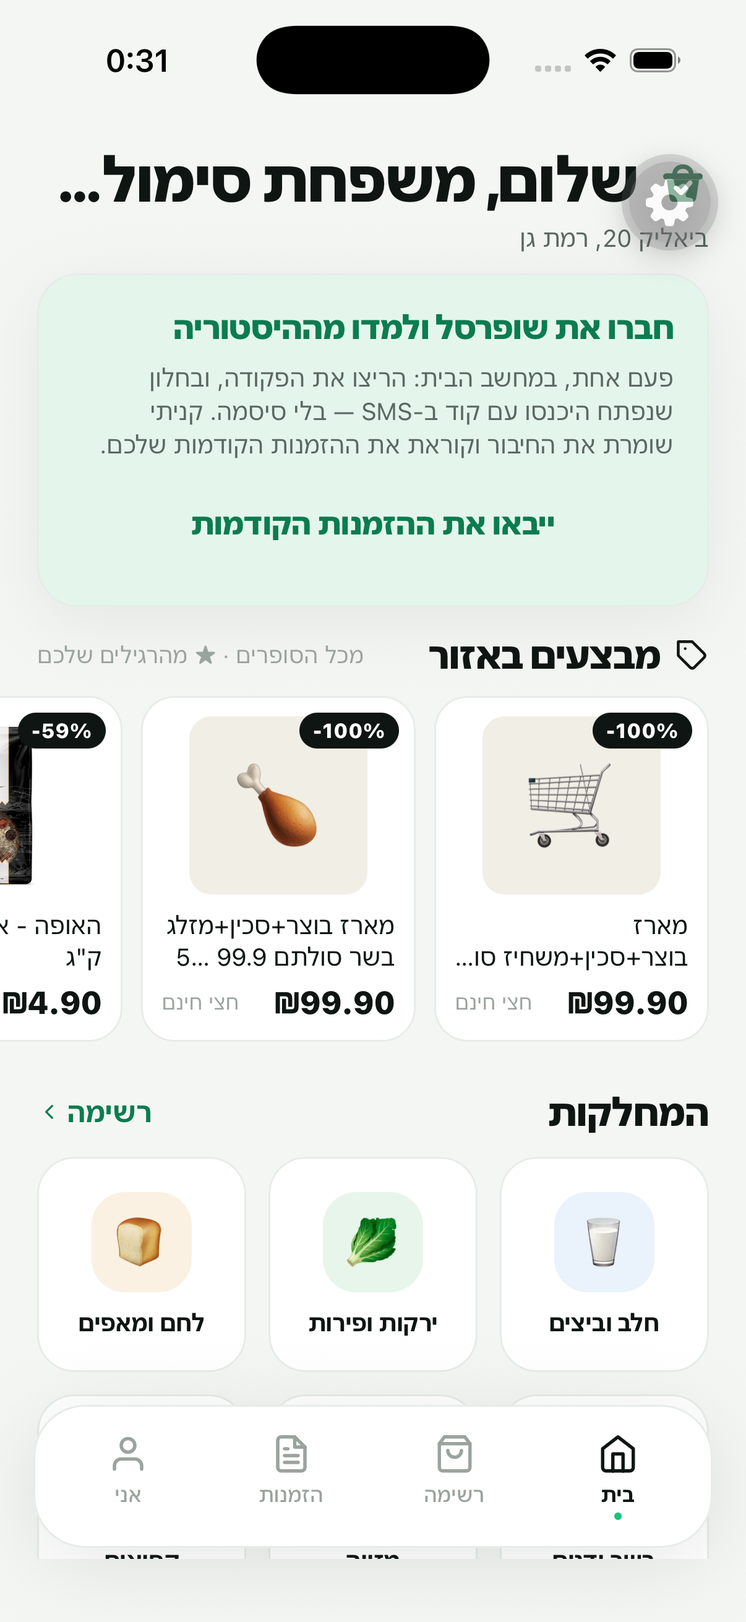
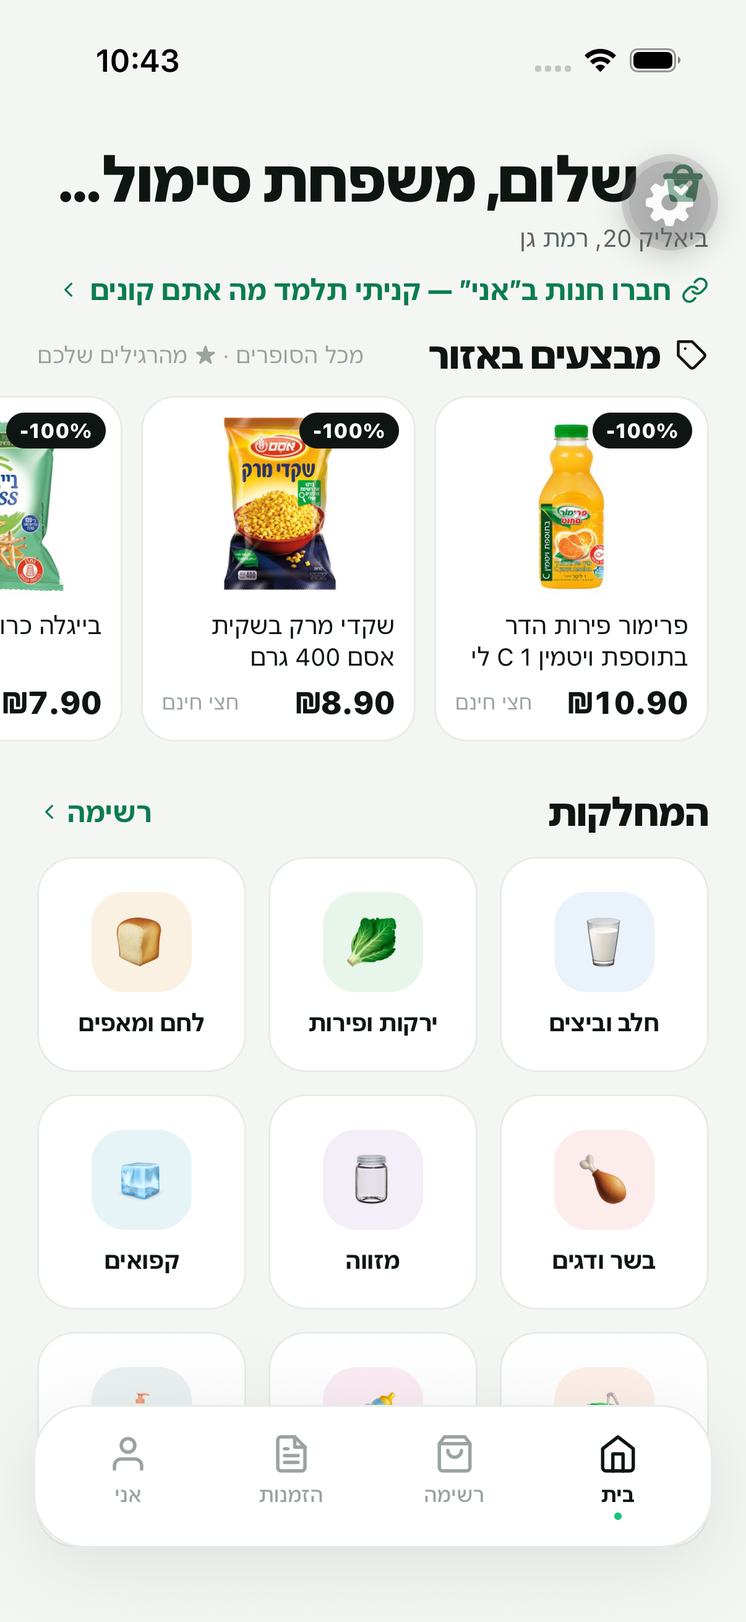
Compare and home: the home-computer connect card is gone (a pointer to Me instead), in-store rows read on one line each with the comparison as the row's last line, coupons fold into the price with 'כולל קופון'

diff --git a/apps/mobile/src/lib/i18n.ts b/apps/mobile/src/lib/i18n.ts
@@ -31,7 +31,7 @@ const he: Strings = {
   linkTipPw: 'שימו לב: כניסת ״חברי מועדון״ נותנת רק מחירי מועדון ולא מאפשרת הזמנה. להזמנה — התחברו עם אימייל+סיסמה (Face ID ימלא) או ״התחבר עם פייסבוק״.', linkTipOtp: 'הזינו מספר טלפון וקוד ה-SMS — בלי סיסמה.',
   importingHistory: 'קוראים את ההזמנות הקודמות שלכם…', importedHistory: 'למדנו {n} הזמנות — ״הרגילים שלכם״ מוכנים.',
   connectStore: 'חיבור {s}', linkHintOtp: 'היכנסו ל{s} עם הטלפון וקוד ה-SMS — בלי סיסמה.', linkHintPw: 'היכנסו ל{s}. הסיסמה נשמרת באייפון — Face ID ימלא אותה.', imSignedIn: 'התחברתי', linkedSub: 'החשבון ב{s} מחובר. מכאן קניתי מזמינה בשבילכם.', linkNeedsApp: 'חיבור חנות נעשה באפליקציה בטלפון, שם המכשיר ממלא את הפרטים אוטומטית.', linkPrivacy: 'ההתחברות נשארת במכשיר שלכם. קניתי לא שומרת סיסמאות.', ok: 'הבנתי', addStore: 'חיבור חנות',
-  connectTitle: 'חברו את {r} ולמדו מההיסטוריה', connectSub: 'פעם אחת, במחשב הבית: הריצו את הפקודה, ובחלון שנפתח היכנסו עם קוד ב-SMS — בלי סיסמה. קניתי שומרת את החיבור וקוראת את ההזמנות הקודמות שלכם.', importBtn: 'ייבאו את ההזמנות הקודמות', importing: 'קוראים את ההיסטוריה…', importDone: 'נלמדו {o} הזמנות · {p} מוצרים', importFailed: 'הייבוא נכשל: {e}', importNeedsLink: 'קודם צריך לחבר את החשבון במחשב הבית.',
+  connectPointer: 'חברו חנות ב״{m}״ — קניתי תלמד מה אתם קונים',
   tabHome: 'בית', tabList: 'רשימה', tabOrders: 'הזמנות', tabMe: 'אני', hello: 'שלום, {n}', aisles: 'המחלקות', browseAisle: 'לכל המוצרים ›', addToList: 'הוסף', inList: 'ברשימה ✓', from: 'החל מ', atChains: 'ב-{n} רשתות',
   ordersTitle: 'ההזמנות שלכם', noOrders: 'עדיין אין הזמנות. הרשימה הראשונה מחכה.', meTitle: 'משק הבית', members: 'בני משפחה', inviteCode: 'קוד הזמנה', signOut: 'התנתקות', yourStores: 'הרשתות שלכם', getIt: 'איך מקבלים', workerOffline: 'המחשב הבית לא מחובר עכשיו — ההזמנה תמתין בתור עד שיתחבר.',
   skip: 'דלגו', introNext: 'הבא', introStart: 'מתחילים',
@@ -41,7 +41,7 @@ const he: Strings = {
   introAfter: 'המסך הבא לוקח דקה: כתובת, הרשתות שלכם, ואיך נוח לכם לקבל.',
   introTryFirst: '↑ נסו את זה למעלה כדי להמשיך', intro3Added: 'נוסף לרשימה ✓',
   intro4Title: 'שלוש הקשות', intro4Body: 'ככה נראית קנייה שבועית בקניתי. נסו:', intro4a: 'הוסיפו את הקנייה הרגילה', intro4b: 'השוו בכל הרשתות', intro4c: 'אשרו את הסכום', intro4Done: 'זהו. המצרכים בדרך. 🛒',
-  couponChip: 'קופון −{x}', connectedStores: 'החנויות המחוברות', workerOnline: 'המחשב הבית מחובר', workerOff: 'המחשב הבית לא מחובר', linked: 'מחובר', notLinked: 'לא מחובר', copyCmd: 'העתיקו את הפקודה', copied: 'הועתק ✓', showIntro: 'הצג את ההקדמה שוב',
+  inclCoupon: 'כולל קופון −{x}', connectedStores: 'החנויות המחוברות', workerOnline: 'המחשב הבית מחובר', workerOff: 'המחשב הבית לא מחובר', linked: 'מחובר', notLinked: 'לא מחובר', copyCmd: 'העתיקו את הפקודה', copied: 'הועתק ✓', showIntro: 'הצג את ההקדמה שוב',
   signInTitle: 'כניסה', signUpTitle: 'יצירת חשבון', confirmTitle: 'אימות המייל', forgotTitle: 'שחזור סיסמה', resetTitle: 'סיסמה חדשה',
   email: 'אימייל', password: 'סיסמה', passwordAgain: 'הסיסמה שוב', newPassword: 'סיסמה חדשה', code: 'קוד האימות מהמייל', pwRule: 'לפחות 10 תווים, עם אות ומספר.',
   signInBtn: 'כניסה', signUpBtn: 'יצירת חשבון', confirmBtn: 'אימות', sendCode: 'שלחו לי קוד', resetBtn: 'שמירת סיסמה', noAccount: 'אין לכם חשבון? הרשמה', forgotLink: 'שכחתי סיסמה', resend: 'שלחו קוד שוב', backToSignIn: 'חזרה לכניסה', codeSent: 'שלחנו קוד ל-{e}',
@@ -100,8 +100,8 @@ const he: Strings = {
   // Delivery time on compare
   etaLive: 'וולט · ~{m} דק׳', etaLiveRange: 'וולט · {r} דק׳', etaSlots: 'משלוח בחלון', etaSlotsSub: 'הרשת מספקת בחלונות זמן — בוחרים בעמוד ההזמנה', fastBy: 'הכי מהר: {s} · ~{m} דק׳', etaWhy: 'הזמן: וולט מגיע תוך דקות; הרשתות בחלון משלוח, לפי היום והשעה.',
   driveTitle: 'ואם נוסעים לחנות?', driveSub: 'אותה רשימה במחירי המדף בסניפים הקרובים לבית, לפי קובצי המחירים שהרשתות מפרסמות.',
-  driveRow: '{d} ק״מ · ~{m} דק׳ נסיעה · ≈{x} דלק', driveCovers: '{n} מתוך {t} פריטים', driveSaves: 'חוסך {x} לעומת המשלוח הזול', driveCosts: 'יקר ב-{x} מהמשלוח הזול',
-  drivePending: 'בודקים מחירים בסניפים הקרובים אליכם — יופיע בהשוואה הבאה.', driveNoAddress: 'כדי לראות מחירים בסניפים צריך כתובת מדויקת — בחרו אותה מההצעות במסך משק הבית.', driveSameLines: 'אותם {n} פריטים ב{s}: {x} בלי משלוח', driveSameLine1: 'אותו פריט ב{s}: {x} בלי משלוח', subsNamed: 'חלופה: {x}', driveNone: 'לא נמצאו סניפים עם מחירים ליד הכתובת שלכם.', driveMissing: 'לא נמצא בסניף: {x}', driveNote: 'הנסיעה מחושבת לפי מרחק; זמן הקנייה עצמה לא נספר.',
+  driveRow: '{d} ק״מ · ~{m} דק׳ נסיעה · ≈{x} דלק', driveCovers: '{n} מתוך {t} פריטים', driveSaves: 'חוסך {x} מול המשלוח הזול', driveCosts: 'יקר ב-{x} מהמשלוח הזול',
+  drivePending: 'בודקים מחירים בסניפים הקרובים אליכם — יופיע בהשוואה הבאה.', driveNoAddress: 'כדי לראות מחירים בסניפים צריך כתובת מדויקת — בחרו אותה מההצעות במסך משק הבית.', driveSameLines: 'אותם {n} ב{s}: {x}', driveSameLine1: 'אותו פריט ב{s}: {x}', subsNamed: 'חלופה: {x}', driveNone: 'לא נמצאו סניפים עם מחירים ליד הכתובת שלכם.', driveMissing: 'לא נמצא בסניף: {x}', driveNote: 'הנסיעה מחושבת לפי מרחק; זמן הקנייה עצמה לא נספר.',
   rej_partial: 'מספקת רק {a} מתוך {b} פריטים', rej_min: 'הסל מתחת למינימום ההזמנה',
 };
 
@@ -124,7 +124,7 @@ const en: Strings = {
   linkTipPw: 'Note: the “club member” sign-in only gives club prices, not ordering. To order, sign in with email+password (Face ID fills it) or “Log in with Facebook”.', linkTipOtp: 'Enter your phone number and the SMS code — no password.',
   importingHistory: 'Reading your past orders…', importedHistory: 'Learned {n} orders — your usuals are ready.',
   connectStore: 'Connect {s}', linkHintOtp: 'Sign in to {s} with your phone and the SMS code — no password.', linkHintPw: 'Sign in to {s}. Your password is on the iPhone — Face ID fills it.', imSignedIn: "I'm signed in", linkedSub: 'Your {s} account is connected. Kaniti orders for you from here.', linkNeedsApp: 'Connecting a store happens in the phone app, where the device fills your details automatically.', linkPrivacy: 'The sign-in stays on your device. Kaniti stores no passwords.', ok: 'Got it', addStore: 'Connect a store',
-  connectTitle: 'Connect {r} and learn from your history', connectSub: 'Once, on the home computer: run the command and, in the window that opens, sign in with an SMS code — no password. Kaniti keeps the session and reads your past orders.', importBtn: 'Import past orders', importing: 'Reading your history…', importDone: 'Learned {o} orders · {p} products', importFailed: 'Import failed: {e}', importNeedsLink: 'Link the account on the home computer first.',
+  connectPointer: 'Connect a store under “{m}” — Kaniti learns what you buy',
   tabHome: 'Home', tabList: 'List', tabOrders: 'Orders', tabMe: 'Me', hello: 'Hi, {n}', aisles: 'Aisles', browseAisle: 'All products ›', addToList: 'Add', inList: 'In list ✓', from: 'from', atChains: 'at {n} chains',
   ordersTitle: 'Your orders', noOrders: 'No orders yet. Your first list is waiting.', meTitle: 'Household', members: 'Family', inviteCode: 'Invite code', signOut: 'Sign out', yourStores: 'Your stores', getIt: 'How you get it', workerOffline: 'The home computer is offline — the order will wait in the queue until it connects.',
   skip: 'Skip', introNext: 'Next', introStart: 'Let’s go',
@@ -134,7 +134,7 @@ const en: Strings = {
   introAfter: 'The next screen takes a minute: your address, your stores, and how you like to get it.',
   introTryFirst: '↑ Try it above to continue', intro3Added: 'Added to the list ✓',
   intro4Title: 'Three taps', intro4Body: 'This is a weekly shop in Kaniti. Try it:', intro4a: 'Add the usual shop', intro4b: 'Compare every store', intro4c: 'Approve the total', intro4Done: 'That’s it. Groceries on the way. 🛒',
-  couponChip: 'Coupon −{x}', connectedStores: 'Connected stores', workerOnline: 'Home computer online', workerOff: 'Home computer offline', linked: 'Linked', notLinked: 'Not linked', copyCmd: 'Copy the command', copied: 'Copied ✓', showIntro: 'Show the intro again',
+  inclCoupon: 'incl. coupon −{x}', connectedStores: 'Connected stores', workerOnline: 'Home computer online', workerOff: 'Home computer offline', linked: 'Linked', notLinked: 'Not linked', copyCmd: 'Copy the command', copied: 'Copied ✓', showIntro: 'Show the intro again',
   signInTitle: 'Sign in', signUpTitle: 'Create account', confirmTitle: 'Verify your email', forgotTitle: 'Reset password', resetTitle: 'New password',
   email: 'Email', password: 'Password', passwordAgain: 'Password again', newPassword: 'New password', code: 'Verification code from email', pwRule: 'At least 10 characters, with a letter and a number.',
   signInBtn: 'Sign in', signUpBtn: 'Create account', confirmBtn: 'Verify', sendCode: 'Send me a code', resetBtn: 'Save password', noAccount: 'No account? Sign up', forgotLink: 'Forgot password', resend: 'Resend code', backToSignIn: 'Back to sign in', codeSent: 'We sent a code to {e}',
@@ -194,7 +194,7 @@ const en: Strings = {
   etaLive: 'Wolt · ~{m} min', etaLiveRange: 'Wolt · {r} min', etaSlots: 'Window delivery', etaSlotsSub: 'The chain delivers in time windows — you pick one at checkout', fastBy: 'Fastest: {s} · ~{m} min', etaWhy: 'Time: Wolt arrives within minutes; the chains deliver in windows that shift by day and hour.',
   driveTitle: 'And if you drive there?', driveSub: 'The same list at shelf prices in the branches near home, from the price files the chains publish.',
   driveRow: '{d} km · ~{m} min drive · ≈{x} fuel', driveCovers: '{n} of {t} items', driveSaves: 'Saves {x} vs the cheapest delivery', driveCosts: '{x} more than the cheapest delivery',
-  drivePending: 'Checking prices at the branches near you — shows on the next compare.', driveNoAddress: 'In-store prices need an exact address — pick it from the suggestions on the Household screen.', driveSameLines: 'Same {n} items at {s}: {x} without delivery', driveSameLine1: 'The same item at {s}: {x} without delivery', subsNamed: 'Substitute: {x}', driveNone: 'No branches with published prices near your address.', driveMissing: 'Not at this branch: {x}', driveNote: 'Driving is priced by distance; the shopping itself is not counted.',
+  drivePending: 'Checking prices at the branches near you — shows on the next compare.', driveNoAddress: 'In-store prices need an exact address — pick it from the suggestions on the Household screen.', driveSameLines: 'Same {n} at {s}: {x}', driveSameLine1: 'Same item at {s}: {x}', subsNamed: 'Substitute: {x}', driveNone: 'No branches with published prices near your address.', driveMissing: 'Not at this branch: {x}', driveNote: 'Driving is priced by distance; the shopping itself is not counted.',
   rej_partial: 'supplies only {a} of {b} items', rej_min: 'basket is below the store minimum',
 };
 

diff --git a/apps/mobile/src/screens/Options.tsx b/apps/mobile/src/screens/Options.tsx
@@ -51,13 +51,13 @@ const short = (x: string) => (x.length > 28 ? x.slice(0, 27) + '…' : x);
  * The price column of a row: the number with its note wrapping under it. Bounded so the name column
  * keeps its width; hugging the card's outer edge so the prices read as one column down the list.
  */
-function PriceCol({ price, note, color, noteColor }: { price: string; note?: string; color?: string; noteColor?: string }) {
+function PriceCol({ price, note, color }: { price: string; note?: string; color?: string }) {
   const s = S(); const rtl = isRTL();
   const edge = rtl ? ('left' as const) : ('right' as const);
   return (
     <View style={{ maxWidth: '45%', alignItems: rtl ? 'flex-start' : 'flex-end' }}>
       <Text style={[s.price, { fontSize: 18, color: color ?? t.ink, textAlign: edge }]}>{price}</Text>
-      {note ? <Text style={[s.faint, { fontSize: 11, textAlign: edge }, noteColor ? { color: noteColor } : null]}>{note}</Text> : null}
+      {note ? <Text style={[s.faint, { fontSize: 11, textAlign: edge }]}>{note}</Text> : null}
     </View>
   );
 }
@@ -185,9 +185,17 @@ export function OptionsScreen({ api, household, lines, onBack, onChoose, onOrder
     return { missing, swaps };
   };
   const noneAnywhere = q.lines.filter((l) => !Object.values(q.storefrontLines ?? {}).some((m) => m[l.id]));
+  // A coupon is already inside a one-store option's cash (its delivered total is net of it); the price says so
+  // in small print rather than a chip. A split's legs are summed from lines, so no coupon is folded there.
+  const couponOf = (o: PurchaseOption) => (o.legs.length === 1 ? q.couponSavings?.[o.legs[0]!.storefrontId] ?? 0 : 0);
+  const couponNote = (o: PurchaseOption) => (couponOf(o) > 0 ? tr('inclCoupon', { x: money(couponOf(o)) }) : undefined);
   // Every store this list cannot be bought from as-is, as a row: what it prices, what it lacks, how short.
   const answer = pick;
-  const otherOptions: Row[] = q.options.filter((o) => o !== answer && o.kind !== 'drive').map((o) => ({ key: `o-${brandsOf(o)}`, title: brandsOf(o), when: whenOf(o), price: o.cashCost, priceNote: answer && o.cashCost > answer.cashCost ? `+${money(o.cashCost - answer.cashCost)}` : undefined, ...exceptionsOf(o.legs[0]!.storefrontId, o.legs.length === 1 ? o.unpricedLineIds : []), ...(o.missingEstimate ? { priceNote: `${tr('toComplete', { x: money(o.missingEstimate) })}` } : {}), option: o, sid: o.legs[0]!.storefrontId }));
+  const otherOptions: Row[] = q.options.filter((o) => o !== answer && o.kind !== 'drive').map((o) => {
+    const diff = o.missingEstimate ? tr('toComplete', { x: money(o.missingEstimate) }) : answer && o.cashCost > answer.cashCost ? `+${money(o.cashCost - answer.cashCost)}` : undefined;
+    const priceNote = [diff, couponNote(o)].filter(Boolean).join(' · ') || undefined;
+    return { key: `o-${brandsOf(o)}`, title: brandsOf(o), when: whenOf(o), price: o.cashCost, ...(priceNote ? { priceNote } : {}), ...exceptionsOf(o.legs[0]!.storefrontId, o.legs.length === 1 ? o.unpricedLineIds : []), option: o, sid: o.legs[0]!.storefrontId };
+  });
   const rejectedRows: Row[] = q.rejected.map((r) => ({ key: `r-${r.storefrontId}`, title: r.brand, when: etaText(r.storefrontId), price: r.itemsSubtotal, priceNote: tr('itemsOnly'), ...exceptionsOf(r.storefrontId), ...(r.code === 'minimum' && r.amountToMinimum !== undefined ? { short: r.amountToMinimum } : {}), sid: r.storefrontId }));
   const rows = [...otherOptions, ...rejectedRows];
   const buyRow = (row: Row) => {
@@ -237,7 +245,10 @@ export function OptionsScreen({ api, household, lines, onBack, onChoose, onOrder
                   <Chip text={tag} tone="good" />
                   <Text style={[s.title, { fontSize: 18, flexShrink: 1 }]} numberOfLines={2}>{brandsOf(answer)}</Text>
                 </View>
-                <Text style={s.priceBig}>{money(answer.cashCost)}</Text>
+                <View style={{ alignItems: isRTL() ? 'flex-start' : 'flex-end' }}>
+                  <Text style={s.priceBig}>{money(answer.cashCost)}</Text>
+                  {couponNote(answer) ? <Text style={[s.faint, { fontSize: 11 }]} testID="answer-coupon">{couponNote(answer)}</Text> : null}
+                </View>
               </View>
               {whenOf(answer) ? <Text style={[s.small, { marginTop: 6 }]}>{whenOf(answer)}</Text> : null}
               <Text style={[s.small, { color: t.accent, marginTop: 2 }]}>{why}</Text>
@@ -273,21 +284,28 @@ export function OptionsScreen({ api, household, lines, onBack, onChoose, onOrder
             {q.drive.status === 'pending' || q.drive.branches.length === 0
               ? <Text style={[s.small, { paddingVertical: 8 }]}>{q.drive.status === 'pending' ? tr('drivePending') : q.drive.status === 'none' ? tr('driveNoAddress') : tr('driveNone')}</Text>
               : q.drive.branches.map((b) => {
+                // The price files name a branch with its code, "(4420)"; the code is theirs, not the family's.
+                // The brand is dropped when the branch name already carries it ("קרפור מרקט …").
+                const branch = b.branchName.replace(/\s*\(\d+\)/g, '').trim();
+                const title = branch.includes(b.brand) ? branch : `${b.brand} · ${branch}`;
                 const full = b.coveredLines === b.totalLines;
                 const ref = b.sameLines ? (full ? b.sameLines.delivered : b.sameLines.items) : 0;
                 const diff = ref > 0 ? ref - (b.itemsSubtotal + (full ? b.driveCost : 0)) : 0;
                 // A full basket is compared delivered-vs-driven and may claim a saving (or a cost). A partial one is only
                 // set beside the same lines at the winning store — like for like, no saving claimed, so no colour either.
+                // The sentence is the row's last line, not a note under the price: the winner's name can be long
+                // ("מחסני השוק | רמת גן (וולט)") and the price column is too narrow to keep it on one line.
                 const note = ref <= 0 ? undefined : full ? (diff > 0 ? tr('driveSaves', { x: money(diff) }) : tr('driveCosts', { x: money(-diff) })) : tr(b.coveredLines === 1 ? 'driveSameLine1' : 'driveSameLines', { n: b.coveredLines, s: b.sameLines!.brand, x: money(ref) });
                 const noteColor = ref <= 0 || !full ? t.muted : diff > 0 ? t.accent : t.amber;
                 return (
                   <View key={b.storefrontId} style={[s.row, { gap: 10, paddingVertical: 9, borderTopWidth: 1, borderColor: t.line }]}>
                     <View style={{ flex: 1 }}>
-                      <Text style={[s.body, { fontSize: 15, fontWeight: '600' }]} numberOfLines={1}>{b.brand} · {b.branchName}</Text>
-                      <Text style={[s.faint, { fontSize: 11 }]}>{tr('driveRow', { d: b.distanceKm, m: b.minutes, x: money(b.driveCost) })}</Text>
-                      <Text style={[s.faint, { fontSize: 11 }]} numberOfLines={2}>{full ? tr('driveAll', { n: b.totalLines }) : tr('driveCovers', { n: b.coveredLines, t: b.totalLines })}{b.missingLineIds.length > 0 && b.missingLineIds.length <= 3 ? ` · ${tr('tblMissing', { x: b.missingLineIds.map((id) => short(nameOf(id))).join(', ') })}` : ''}</Text>
+                      <Text style={[s.body, { fontSize: 15, fontWeight: '600' }]} numberOfLines={1}>{title}</Text>
+                      <Text style={[s.faint, { fontSize: 11 }]} numberOfLines={1}>{tr('driveRow', { d: b.distanceKm, m: b.minutes, x: money(b.driveCost) })}</Text>
+                      <Text style={[s.faint, { fontSize: 11 }]} numberOfLines={1}>{full ? tr('driveAll', { n: b.totalLines }) : tr('driveCovers', { n: b.coveredLines, t: b.totalLines })}{b.missingLineIds.length > 0 && b.missingLineIds.length <= 3 ? ` · ${tr('tblMissing', { x: b.missingLineIds.map((id) => short(nameOf(id))).join(', ') })}` : ''}</Text>
+                      {note ? <Text style={[s.faint, { fontSize: 11, color: noteColor }]} numberOfLines={1} testID={`drive-note-${b.storefrontId}`}>{note}</Text> : null}
                     </View>
-                    <PriceCol price={money(b.itemsSubtotal)} {...(note ? { note } : {})} color={full && diff > 0 ? t.accent : t.ink} noteColor={noteColor} />
+                    <PriceCol price={money(b.itemsSubtotal)} color={full && diff > 0 ? t.accent : t.ink} />
                   </View>
                 );
               })}

diff --git a/apps/mobile/src/screens/Home.tsx b/apps/mobile/src/screens/Home.tsx
@@ -6,9 +6,10 @@ import type { Api, Deal, Household } from '../lib/api';
 import { AISLES, aisleOf } from '../lib/categories';
 import { currentRegion, isRTL, money, t as tr } from '../lib/i18n';
 import { addLine, newId, setLines, useList } from '../lib/store';
+import { useLinked } from '../lib/linked';
 import { carouselProps } from '../lib/gesture';
 import { ProductImage } from '../ProductImage';
-import { Button, GRAD_INK, GradientCard, Header, Icon, S, t, Toast } from '../ui';
+import { GRAD_INK, GradientCard, Header, Icon, S, t, Toast } from '../ui';
 
 const tap = () => { if (Platform.OS !== 'web') void Haptics.impactAsync(Haptics.ImpactFeedbackStyle.Light); };
 
@@ -16,30 +17,15 @@ const tap = () => { if (Platform.OS !== 'web') void Haptics.impactAsync(Haptics.
  * Home: the one screen a family opens on a Thursday evening.
  * The usual shop in one tap, what they forgot, and the aisles to browse.
  */
-export function HomeScreen({ api, household, onAisle, onList }: { api: Api; household: Household; onAisle: (aisle: string) => void; onList: () => void }) {
+export function HomeScreen({ api, household, onAisle, onList, onMe }: { api: Api; household: Household; onAisle: (aisle: string) => void; onList: () => void; onMe: () => void }) {
   const s = S();
   const rtl = isRTL();
   const lines = useList();
   const [memory, setMemory] = useState<HouseholdMemory | null>(null);
   const [suggestions, setSuggestions] = useState<Suggestion[]>([]);
   const [toast, setToast] = useState<string | null>(null);
-  const [imp, setImp] = useState<{ status: string; orders?: number; products?: number; error?: string } | null>(null);
-  const firstRetailer = household.retailers?.[0];
-  const retailerName: Record<string, string> = { shufersal: 'שופרסל', 'rami-levy': 'רמי לוי', victory: 'ויקטורי', carrefour: 'קרפור', yochananof: 'יוחננוף', 'tiv-taam': 'טיב טעם' };
-  useEffect(() => {
-    if (!firstRetailer) return;
-    let alive = true;
-    const poll = async () => {
-      const st = await api.importStatus(household.id, firstRetailer).catch(() => null);
-      if (!alive) return;
-      setImp(st);
-      if (st && ['queued', 'connecting', 'reading', 'resolving'].includes(st.status)) setTimeout(poll, 4000);
-      if (st?.status === 'done') api.memory(household.id).then(setMemory).catch(() => null);
-    };
-    void poll();
-    return () => { alive = false; };
-  }, [api, household.id, firstRetailer]);
-  const startImport = async () => { if (!firstRetailer) return; tap(); setImp({ status: 'queued' }); await api.requestImport(household.id, firstRetailer).catch(() => setImp({ status: 'failed', error: '' })); };
+  // Stores connect on the phone, from the Me screen (ADR 0008); the memory fills from their history.
+  const linked = useLinked();
   const say = (m: string) => { setToast(m); setTimeout(() => setToast(null), 1400); };
   const locale = currentRegion().locale === 'he' ? 'he' : 'en';
 
@@ -79,14 +65,13 @@ export function HomeScreen({ api, household, onAisle, onList }: { api: Api; hous
               </View>
             </GradientCard>
           )}
-          {firstRetailer && memory && Object.keys(memory.products).length === 0 && imp?.status !== 'done' && (
-            <View style={[s.card, { backgroundColor: t.accentSoft }]}>
-              <Text style={[s.title, { color: t.accent, fontSize: 17 }]}>{tr('connectTitle', { r: retailerName[firstRetailer] ?? firstRetailer })}</Text>
-              <Text style={[s.small, { marginVertical: 8 }]}>{tr('connectSub')}</Text>
-              {imp && ['queued', 'connecting', 'reading', 'resolving'].includes(imp.status) ? <Text style={s.small}>{tr('importing')}</Text>
-                : imp?.status === 'failed' ? <Text style={[s.small, { color: t.red }]}>{/no saved session/.test(imp.error ?? '') ? tr('importNeedsLink') : tr('importFailed', { e: imp.error ?? '' })}</Text>
-                : <Button title={tr('importBtn')} kind="secondary" onPress={startImport} />}
-            </View>
+          {/* Nothing remembered and no store connected yet: one line, to where connecting happens. */}
+          {memory && Object.keys(memory.products).length === 0 && linked.length === 0 && (
+            <Pressable onPress={() => { tap(); onMe(); }} hitSlop={8} testID="connect-pointer" style={{ flexDirection: rtl ? 'row-reverse' : 'row', alignItems: 'center', gap: 5, marginBottom: 14 }}>
+              <Icon name="link" size={15} color={t.accent} />
+              <Text style={[s.link, { flexShrink: 1 }]} numberOfLines={1}>{tr('connectPointer', { m: tr('tabMe') })}</Text>
+              <Icon name="chevron" size={13} color={t.accent} weight={2.6} />
+            </Pressable>
           )}
           {suggestions.length > 0 && (
             <View style={[s.card, { backgroundColor: t.amberSoft }]}>

diff --git a/apps/mobile/src/screens/List.tsx b/apps/mobile/src/screens/List.tsx
@@ -39,22 +39,6 @@ export function ListScreen({ api, household, onQuote, onInvite }: {
   const seq = useRef(0);
   const [scanning, setScanning] = useState(false);
   const [toast, setToast] = useState<string | null>(null);
-  const [imp, setImp] = useState<{ status: string; orders?: number; products?: number; error?: string } | null>(null);
-  const firstRetailer = household.retailers?.[0];
-  useEffect(() => {
-    if (!firstRetailer) return;
-    let alive = true;
-    const poll = async () => {
-      const st = await api.importStatus(household.id, firstRetailer).catch(() => null);
-      if (!alive) return;
-      setImp(st);
-      if (st && ['queued', 'connecting', 'reading', 'resolving'].includes(st.status)) setTimeout(poll, 4000);
-      if (st?.status === 'done') api.memory(household.id).then(setMemory).catch(() => null);
-    };
-    void poll();
-    return () => { alive = false; };
-  }, [api, household.id, firstRetailer]);
-  const startImport = async () => { if (!firstRetailer) return; tap(); setImp({ status: 'queued' }); await api.requestImport(household.id, firstRetailer).catch(() => setImp({ status: 'failed', error: '' })); };
   const say = (m: string) => { setToast(m); setTimeout(() => setToast(null), 1400); };
 
   useEffect(() => { api.memory(household.id).then(setMemory).catch(() => null); }, [api, household.id]);
@@ -168,19 +152,6 @@ export function ListScreen({ api, household, onQuote, onInvite }: {
           </View>
         ) : null}
 
-        {!showSearch && firstRetailer && (!memory || Object.keys(memory.products).length === 0) && imp?.status !== 'done' && (
-          <View style={[s.card, { backgroundColor: t.accentSoft }]}>
-            <Text style={[s.title, { color: t.accent, fontSize: 17 }]}>{tr('connectTitle', { r: firstRetailer })}</Text>
-            <Text style={[s.small, { marginBottom: 10 }]}>{tr('connectSub')}</Text>
-            <Text style={[s.faint, { fontFamily: 'Menlo', marginBottom: 10 }]}>KANITI_HOUSEHOLD={household.id} npm run link -w @fca/order-worker</Text>
-            {imp && ['queued', 'connecting', 'reading', 'resolving'].includes(imp.status) ? <Text style={s.small}>{tr('importing')}</Text>
-              : imp?.status === 'failed' ? <Text style={[s.small, { color: t.red }]}>{/no saved session/.test(imp.error ?? '') ? tr('importNeedsLink') : tr('importFailed', { e: imp.error ?? '' })}</Text>
-              : <Button title={tr('importBtn')} kind="secondary" onPress={startImport} />}
-          </View>
-        )}
-        {!showSearch && imp?.status === 'done' && (imp.orders ?? 0) > 0 && lines.length === 0 && Object.keys(memory?.products ?? {}).length > 0 && (
-          <Text style={[s.small, { marginBottom: 8 }]}>{tr('importDone', { o: imp.orders ?? 0, p: imp.products ?? 0 })}</Text>
-        )}
         {!showSearch && lines.length === 0 && usuals.filter((p) => due.has(p.key) || p.orderCount >= 2).length >= 5 && (
           <Pressable onPress={usualShop} style={({ pressed }) => [s.card, { backgroundColor: t.accent, marginBottom: 14 }, pressed && { opacity: 0.85 }]}>
             <Text style={{ color: '#fff', fontSize: 20, fontWeight: '800', textAlign: rtl ? 'right' : 'left' }}>{tr('usualShopN', { n: usuals.filter((p) => due.has(p.key) || p.orderCount >= 2).length })}</Text>

diff --git a/apps/mobile/src/lib/api.ts b/apps/mobile/src/lib/api.ts
@@ -90,8 +90,6 @@ export class Api {
   suggestAddress = (q: string) => this.#call<{ suggestions: { street: string; number: string; city: string; label: string; verified: boolean; lat: number; lng: number }[] }>('GET', `/geo/suggest?q=${encodeURIComponent(q)}`);
   household = (hid: string) => this.#call<Household>('GET', `/households/${hid}`);
   importHistory = (hid: string, retailer: string, orders: { at: string; lines: { name: string; code?: string; qty: number }[] }[], diag?: Record<string, unknown>) => this.#call<{ orders: number; products: number }>('POST', `/households/${hid}/import-history`, { retailer, orders, ...(diag ? { diag } : {}) });
-  requestImport = (hid: string, retailer: string) => this.#call<{ retailer: string; status: string }>('POST', `/households/${hid}/imports`, { retailer });
-  importStatus = (hid: string, retailer: string) => this.#call<{ retailer: string; status: string; orders?: number; products?: number; error?: string }>('GET', `/households/${hid}/imports/${retailer}`);
   search = (hid: string, q: string) => this.#call<{ products: SearchHit[] }>('GET', `/households/${hid}/search?q=${encodeURIComponent(q)}`);
   lookup = (hid: string, gtin: string) => this.#call<{ products: SearchHit[] }>('GET', `/households/${hid}/search?gtin=${encodeURIComponent(gtin)}`);
   createOrder = (hid: string, legs: { retailer: string; lines: Omit<ListLine, 'id'>[] }[]) => this.#call<Order>('POST', `/households/${hid}/orders`, { legs });

diff --git a/apps/mobile/App.tsx b/apps/mobile/App.tsx
@@ -106,7 +106,7 @@ export default function App() {
   else if (screen.name === 'order') body = <OrderScreen api={api} household={household} orderId={screen.orderId} onBack={() => { setTab('orders'); setScreen({ name: 'tabs' }); }} />;
   else {
     showTabs = true;
-    body = tab === 'home' ? <HomeScreen api={api} household={household} onAisle={(aisle) => setScreen({ name: 'aisle', aisle })} onList={() => setTab('list')} />
+    body = tab === 'home' ? <HomeScreen api={api} household={household} onAisle={(aisle) => setScreen({ name: 'aisle', aisle })} onList={() => setTab('list')} onMe={() => setTab('me')} />
       : tab === 'list' ? <ListScreen api={api} household={household} onQuote={(ls) => setScreen({ name: 'options', lines: ls })} onInvite={invite} />
       : tab === 'orders' ? <OrdersScreen api={api} household={household} onOpen={(orderId) => setScreen({ name: 'order', orderId })} />
       : <MeScreen api={api} household={household} onSignOut={doSignOut} onShowIntro={() => setIntro(true)} />;
